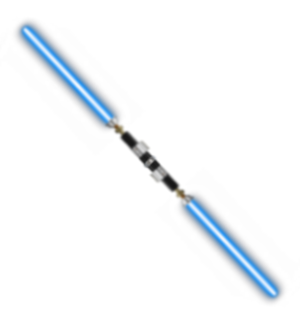
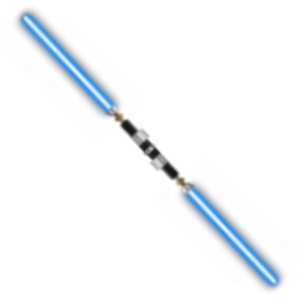
Added on-click mouse effects where the enemy face drops to .9 opacity and the mouse cursor changes to appear that there is a lightsaber attack effect

Changed region(s): [[0.48, 0.51, 0.96, 0.99], [0.06, 0.03, 0.48, 0.45]]

diff --git a/public/css/style.css b/public/css/style.css
@@ -57,11 +57,19 @@ h2 {
     cursor: url('../assets/images/Rebels-Cursor.png'), auto;
 }
 
+.rebellion:hover {
+    opacity: .7;
+}
+
 .empire {
     width: 35%;
     padding: 2%;
     box-sizing: border-box;
     cursor: url('../assets/images/Empire-Cursor.png'), auto;
+}
+
+.empire:hover {
+    opacity: .7;
 }
 
 /* Item Stylings */
@@ -234,6 +242,13 @@ h2 {
 
 .enemy {
     width: 80%;
+}
+
+/* Enemy On Click Actions */
+
+.enemy:active {
+    opacity: .9;
+    cursor: url('../assets/images/Lightsaber-Cursor-Active.png'), auto;
 }
 
 /* Right Div Stylings */
